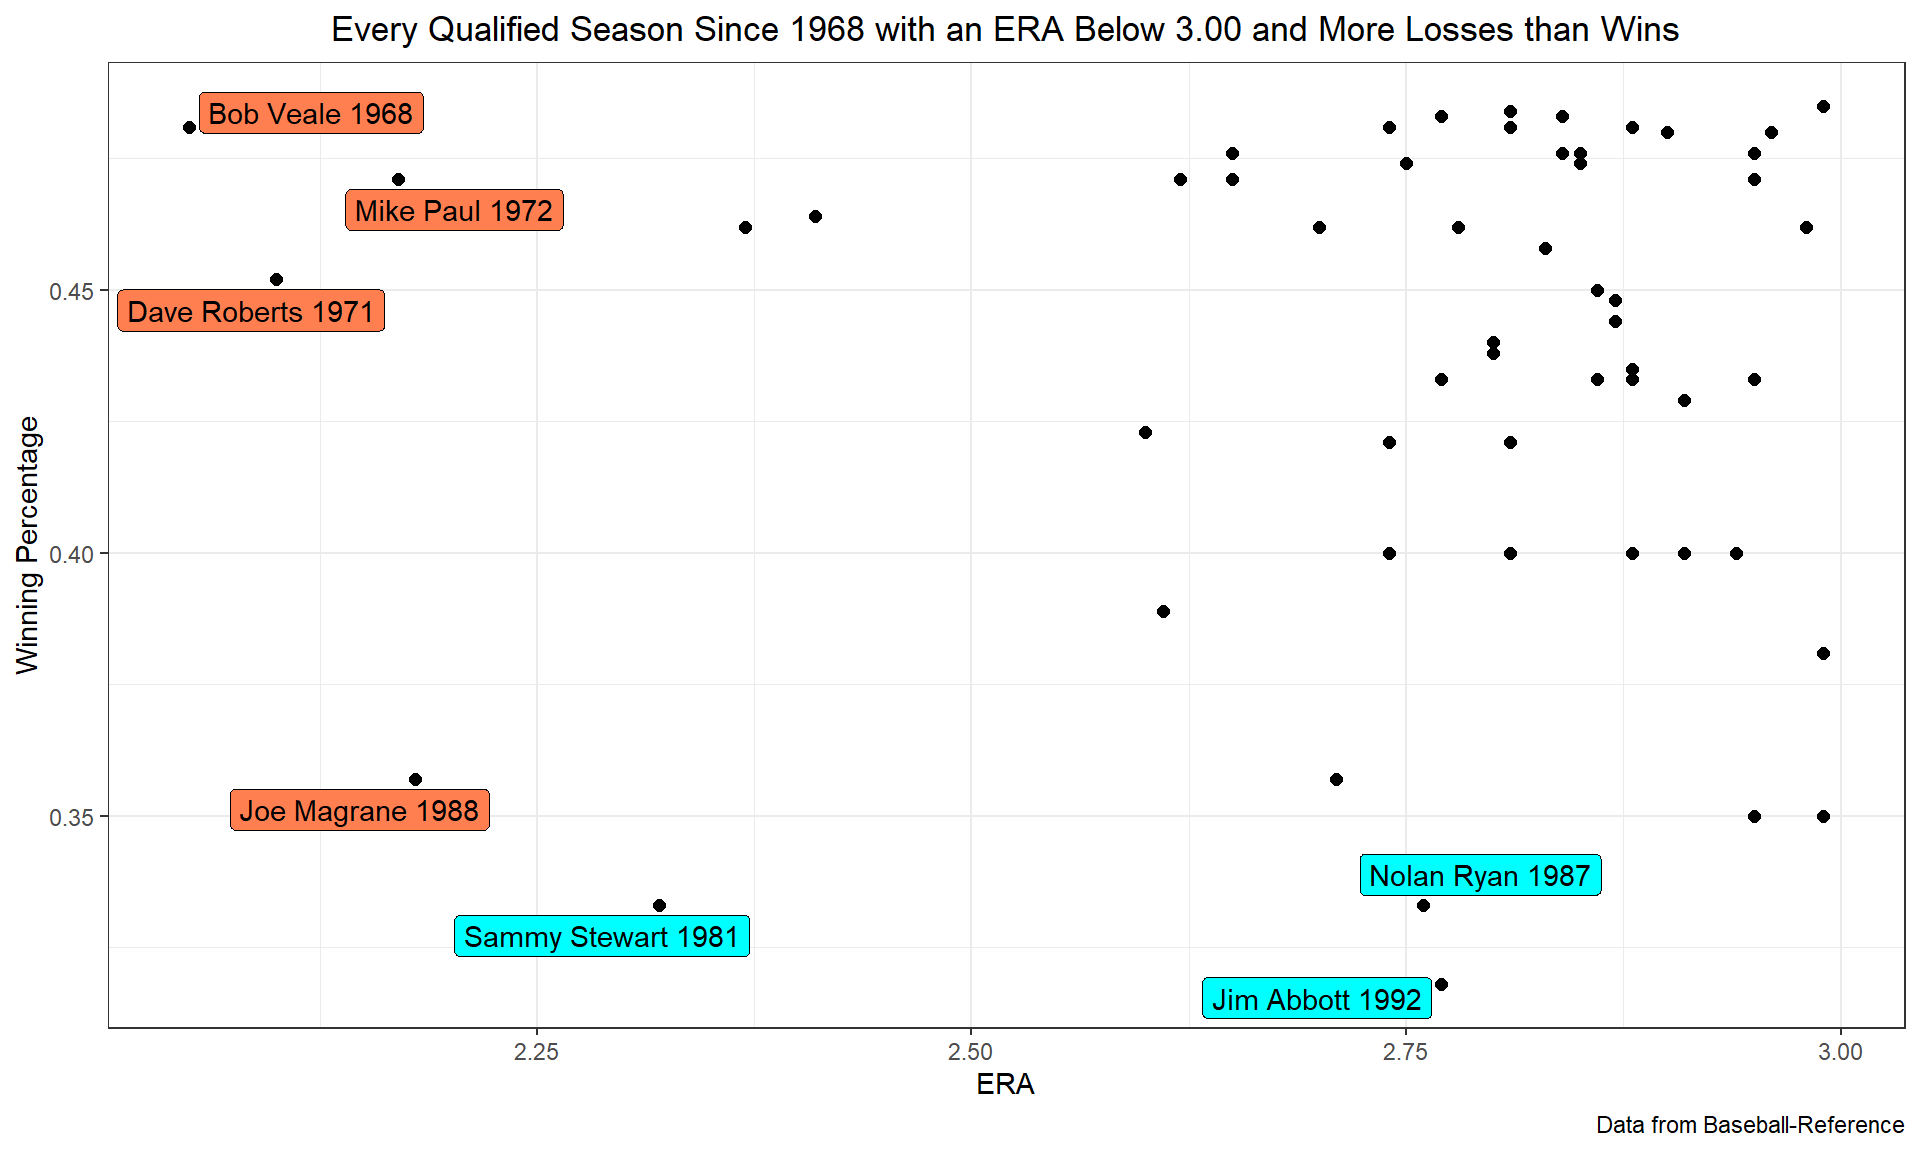
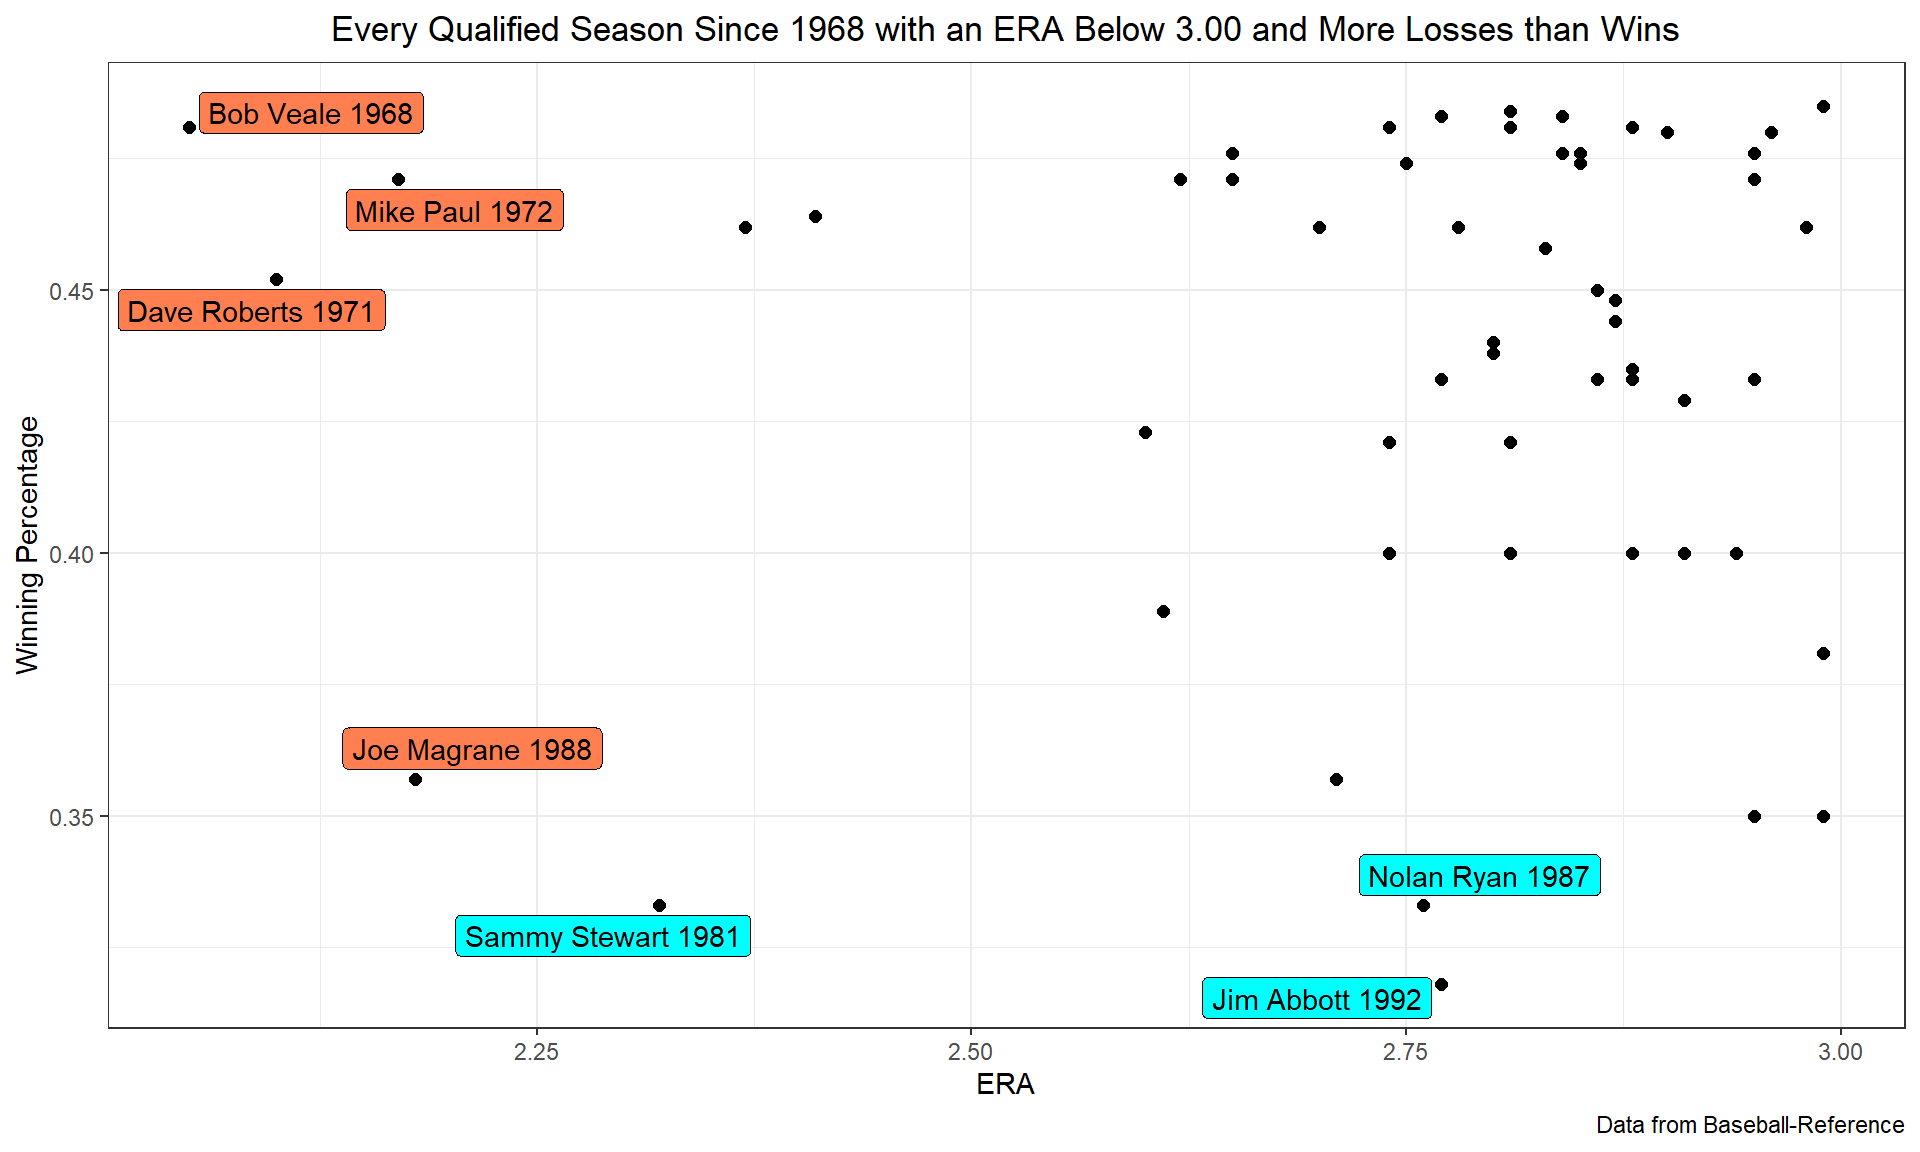
Fixed the plot's labels

diff --git a/projects.html b/projects.html
@@ -301,6 +301,14 @@ $(document).ready(function () {
 <p>There is a growing list of personal projects that I am excited to dive into as time goes on. A lot of them are focused on sports statistics or fun data analysis. Here I will provide a brief overview of what I have done, as well as links to the full body of work.</p>
 <div id="runs-batted-in-vs-total-opportunities" class="section level2">
 <h2><a href="https://github.com/tdpotter58/rbis-per-opportunity">Runs Batted In Vs Total Opportunities</a></h2>
+<pre><code>## 
+## Attaching package: &#39;dplyr&#39;</code></pre>
+<pre><code>## The following objects are masked from &#39;package:stats&#39;:
+## 
+##     filter, lag</code></pre>
+<pre><code>## The following objects are masked from &#39;package:base&#39;:
+## 
+##     intersect, setdiff, setequal, union</code></pre>
 <p><img src="projects_files/figure-html/rbi1-1.png" width="1152" /> A look at how often each MLB player came to the plate with a runner at third base, and how often they were able to score said runner. I wanted to see what players were the most efficient in this situation, and what players just had better chances to inflate their RBI numbers. Data was scraped from Baseball-Reference for the 2016-2020 MLB seasons.</p>
 <table>
 <thead>
